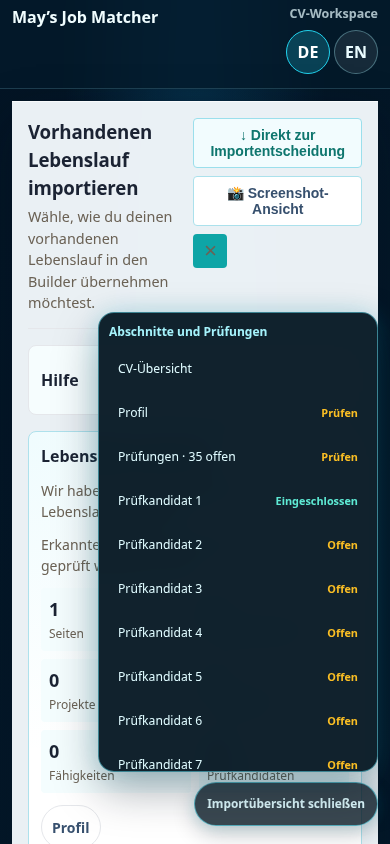
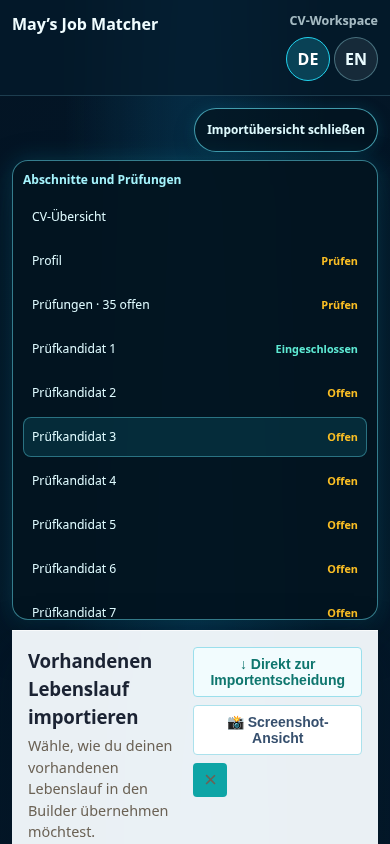
fix(import): keep mobile radar trigger clear of card content

diff --git a/src/components/CvBuilderImportDialog.tsx b/src/components/CvBuilderImportDialog.tsx
@@ -461,6 +461,19 @@ export default function CvBuilderImportDialog({
         if (event.target === event.currentTarget) onClose();
       }}
     >
+      {fullpage && step === "preview" && !screenshotMode && (
+        <RadarNavigator
+          targets={navigatorTargets}
+          labels={navigatorLabels}
+          navigationKey={`cv-import-${sourceName}`}
+          regionSelector="#cv-import-workspace"
+          offset={() => 24}
+          classNamePrefix="match-radar"
+          className="cv-import-radar"
+          panelId="cv-import-radar-panel"
+          restoreFocusAfterPanelNavigation={false}
+        />
+      )}
       <div
         ref={workspaceRef}
         id={fullpage ? "cv-import-workspace" : undefined}
@@ -716,19 +729,6 @@ export default function CvBuilderImportDialog({
           </div>
         )}
       </div>
-      {fullpage && step === "preview" && !screenshotMode && (
-        <RadarNavigator
-          targets={navigatorTargets}
-          labels={navigatorLabels}
-          navigationKey={`cv-import-${sourceName}`}
-          regionSelector="#cv-import-workspace"
-          offset={() => 24}
-          classNamePrefix="match-radar"
-          className="cv-import-radar"
-          panelId="cv-import-radar-panel"
-          restoreFocusAfterPanelNavigation={false}
-        />
-      )}
     </div>
   );
 }

diff --git a/src/styles.css b/src/styles.css
@@ -16485,3 +16485,34 @@ body:has(.dashboard-v2--applications) .navbar-glass.scrolled {
     transition: none;
   }
 }
+
+/* JM-CV-IMPORT-NAVIGATOR-02 visual follow-up — on narrow viewports the
+   overview trigger moves into normal flow above the import card instead of
+   floating over card content. Desktop fixed rail is unchanged. */
+@media (max-width: 900px) {
+  .cv-import-radar {
+    position: static;
+    display: flex;
+    flex-direction: column;
+    align-items: flex-end;
+    width: min(100%, 1200px);
+    height: auto;
+    margin: 0 auto 10px;
+    transform: none;
+    pointer-events: auto;
+  }
+
+  .cv-import-radar .match-radar__mobile-toggle {
+    width: auto;
+    max-width: min(280px, calc(100vw - 24px));
+  }
+
+  .cv-import-radar .match-radar__panel {
+    position: static;
+    right: auto;
+    bottom: auto;
+    width: 100%;
+    max-height: min(55vh, 460px);
+    margin: 8px 0 0;
+  }
+}
